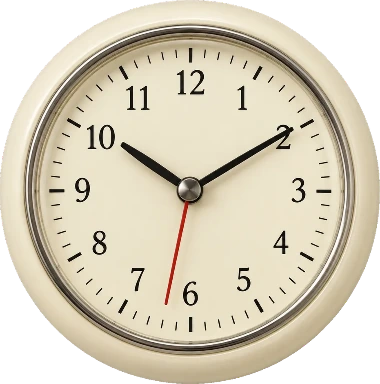
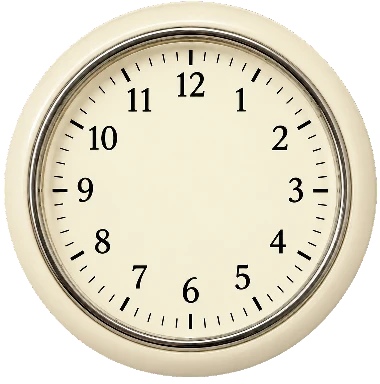
The fridge clock tells the time
Pack 35 splits the clock into a hands-free dial and two hands, so it can read
real local time instead of being frozen at the 10:10 the photo was taken at.

The dial keeps its exact 380x384 frame and existing spindle (0.501, 0.4957),
so gadget-pivots.ts is untouched. It is re-encoded but never resized: only a
crop or a rescale would move the pivot, which is what Codex's handoff warns
about. 121 KB -> 25 KB, in line with the other rotors.

Hands are drawn inside the gadget's own rotation, so the face turns with the
rotor and the hands carry that turn plus their angle: the clock still reads
correctly however far round it has spun. Geometry is Codex's - 128x256 frames
pivoting at (64,240), scaled 0.55 against the face, hour then minute.

The wall clock is swappable so a render can be pinned, and that is how this
was checked: rendered 12:00, 3:00, 6:30 and 10:10 through the real drawGadget
and read the dials. Worth doing - the first render still had the old painted
hands underneath, because the clock layers were installing BEFORE the fitting
pass that writes rotor-clock.webp from pack 28 and were being overwritten. The
copy step runs after it now.

Claude-Session: https://claude.ai/code/session_01U9ZCxwVSY93KBqW5JSgwfx

diff --git a/src/game/gadget-art.ts b/src/game/gadget-art.ts
@@ -45,6 +45,8 @@ export const gadgetArtReady = typeof Image === "undefined" ? Promise.resolve() :
   // Whole photographed assemblies - hook, chain, clip or spindle baked in - keyed by the item id
   // the world hands out. Each one hangs or turns about its own measured point in GADGET_PIVOTS.
   ...GADGET_ASSEMBLIES.map((id) => loadImage(`art/gadgets/${id}.webp`, (image) => setObjectArt(id, image))),
+  // the clock ships as a hands-free dial plus its two hands, so it can tell the actual time
+  ...["clock-hour-hand", "clock-minute-hand"].map((id) => loadImage(`art/gadgets/${id}.webp`, (image) => setObjectArt(id, image))),
   loadImage("art/real-v1/kid-arm.webp", (image) => setObjectArt("kid-arm", image)),
   loadImage("art/real-v1/cat-paw.webp", (image) => setObjectArt("cat-paw", image)),
   loadImage("art/real-v1/cat-paw-claws.webp", (image) => setObjectArt("cat-paw-claws", image)),
@@ -59,6 +61,12 @@ export const gadgetArtReady = typeof Image === "undefined" ? Promise.resolve() :
  */
 export const KEYCHAIN = { x: 0.4936, y: 0.1771, chainEnd: 218 / 384 };
 const KEYCHAIN_PIVOT = { x: KEYCHAIN.x, y: KEYCHAIN.y };
+
+/** Wall clock reading, swappable so a render can be pinned to a known time. */
+let wallClock = () => new Date();
+export function setWallClock(read: () => Date) { wallClock = read; }
+/** Hand geometry from pack 35: 128x256 frames pivoting at (64,240), at 0.55 of the face. */
+const HAND = { px: 64, py: 240, scale: 0.55 };
 const imageSize = (img: CanvasImageSource) => ({
   w: (img as HTMLImageElement).naturalWidth || (img as HTMLCanvasElement).width || 1,
   h: (img as HTMLImageElement).naturalHeight || (img as HTMLCanvasElement).height || 1,
@@ -200,6 +208,23 @@ export function drawGadget(ctx: CanvasRenderingContext2D, g: Gadget, time: numbe
     // spindle-centred by the install script, so the draw offset IS the pivot
     const { w, h } = imageSize(rotorImg), s = 76 / Math.max(w, h);
     ctx.drawImage(rotorImg, -pivot[0] * w * s, -pivot[1] * h * s, w * s, h * s);
+    // The clock's dial ships without hands. Lay them over the spindle at the real local
+    // time: the face turns with the gadget and the hands carry that turn plus their own
+    // angle, so it still reads correctly however far round the rotor has gone.
+    const hourHand = objectArt.get("clock-hour-hand"), minuteHand = objectArt.get("clock-minute-hand");
+    if (g.itemId === "rotor-clock" && hourHand && minuteHand) {
+      const at = wallClock(), minutes = at.getMinutes() + at.getSeconds() / 60;
+      const hs = HAND.scale * s;
+      for (const [hand, angle] of [
+        [hourHand, ((at.getHours() % 12) + minutes / 60) * Math.PI / 6],
+        [minuteHand, minutes * Math.PI / 30],
+      ] as const) {
+        const d = imageSize(hand);
+        ctx.save(); ctx.rotate(angle);
+        ctx.drawImage(hand, -HAND.px * hs, -HAND.py * hs, d.w * hs, d.h * hs);
+        ctx.restore();
+      }
+    }
 
   } else if (g.kind === "rotor") {
     plate(ctx, -29, -29, 58, 58, ["#db6454", "#49aeb3", "#c695dd"][index] ?? "#49aeb3", 15);

diff --git a/tests/visual-entry.ts b/tests/visual-entry.ts
@@ -1,7 +1,7 @@
 export { Game } from "../src/game/game";
 export { setPickupArt } from '../src/game/pickup-art';
 export { setObstacleArt, OBSTACLE_IDS } from '../src/game/obstacle-art';
-export { drawGadget, setGadgetArt, setDestinationArt, setObjectArt } from "../src/game/gadget-art";
+export { drawGadget, setGadgetArt, setDestinationArt, setObjectArt, setWallClock } from "../src/game/gadget-art";
 export { gadgetPose, gadgetZone, GADGET_KINDS, THEMES } from "../src/game/gadgets";
 export { MUSIC_STEP, musicStep, EFFECTS } from "../src/game/music-score";
 export { drawKidHand, handPose, handTouches, handWorldPoint, SWIPE_DURATION, RECOIL_DURATION } from "../src/game/kid-hand";
